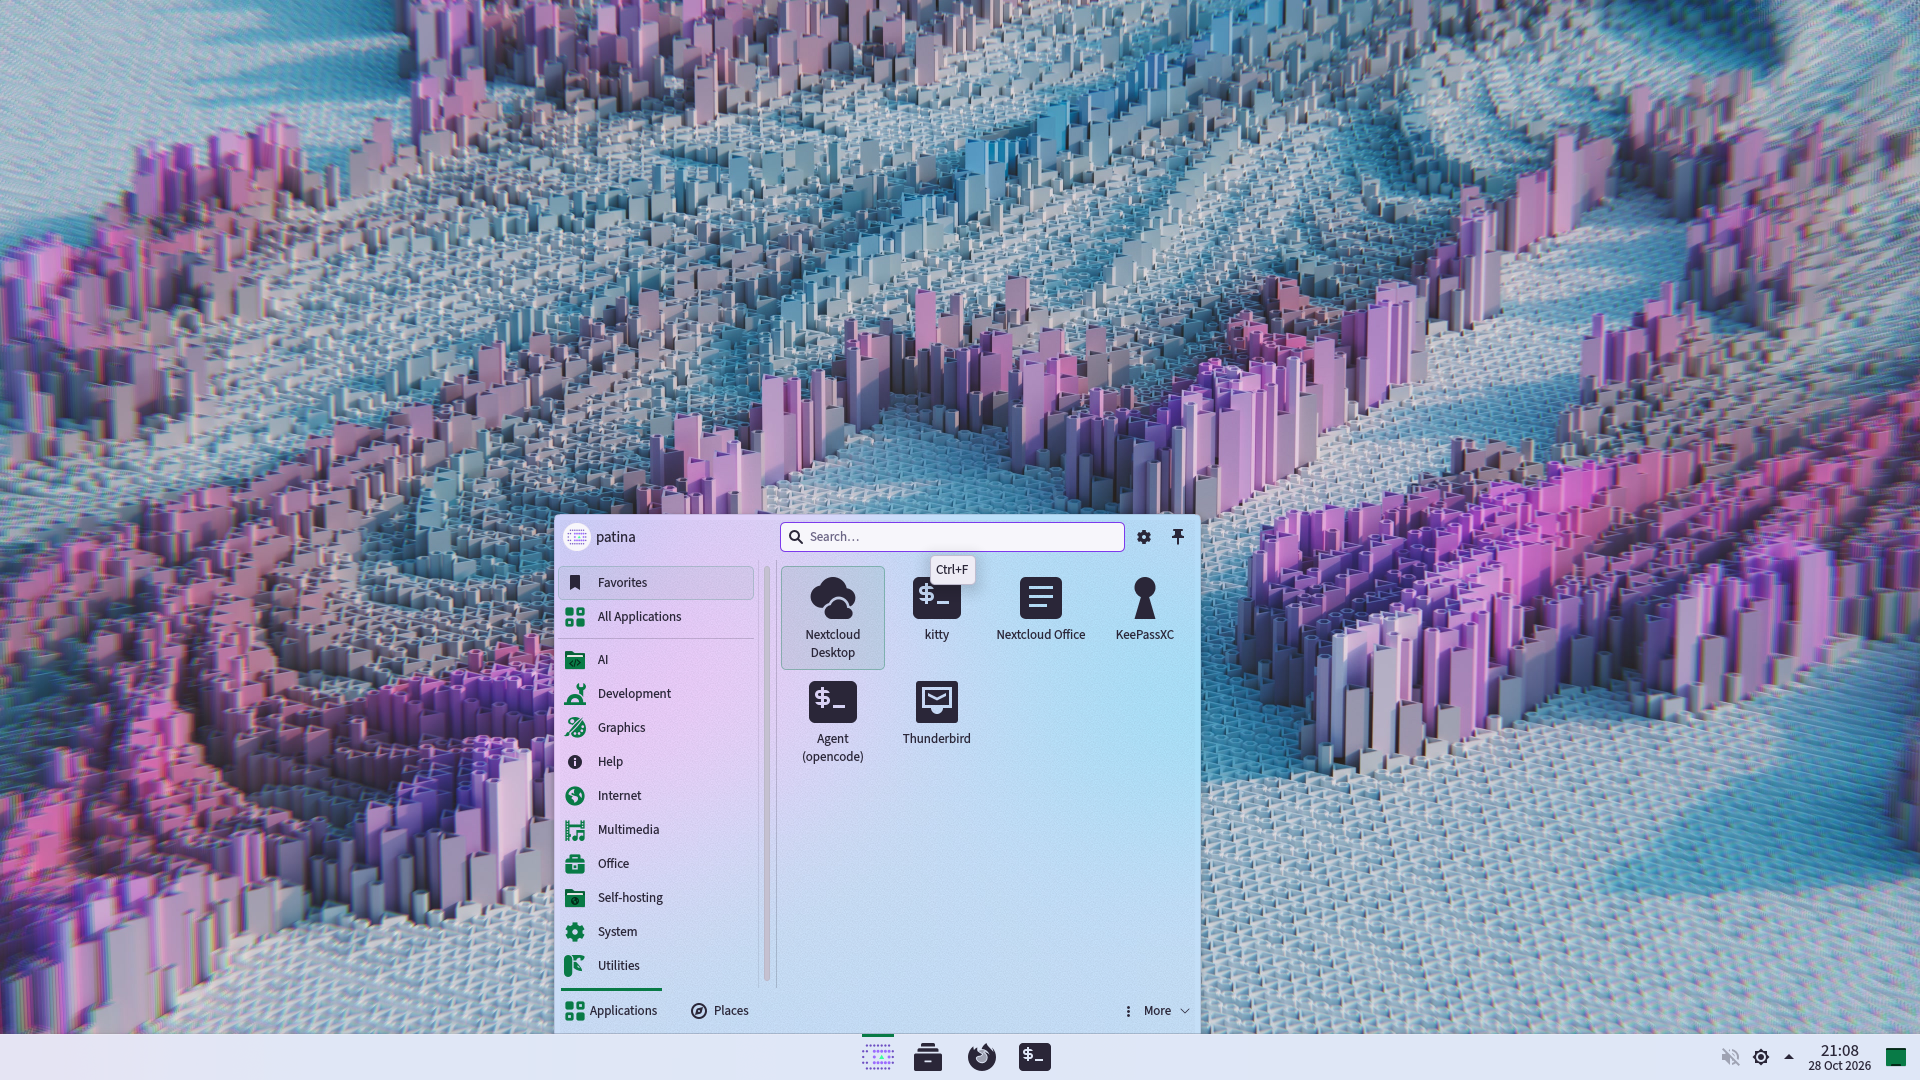
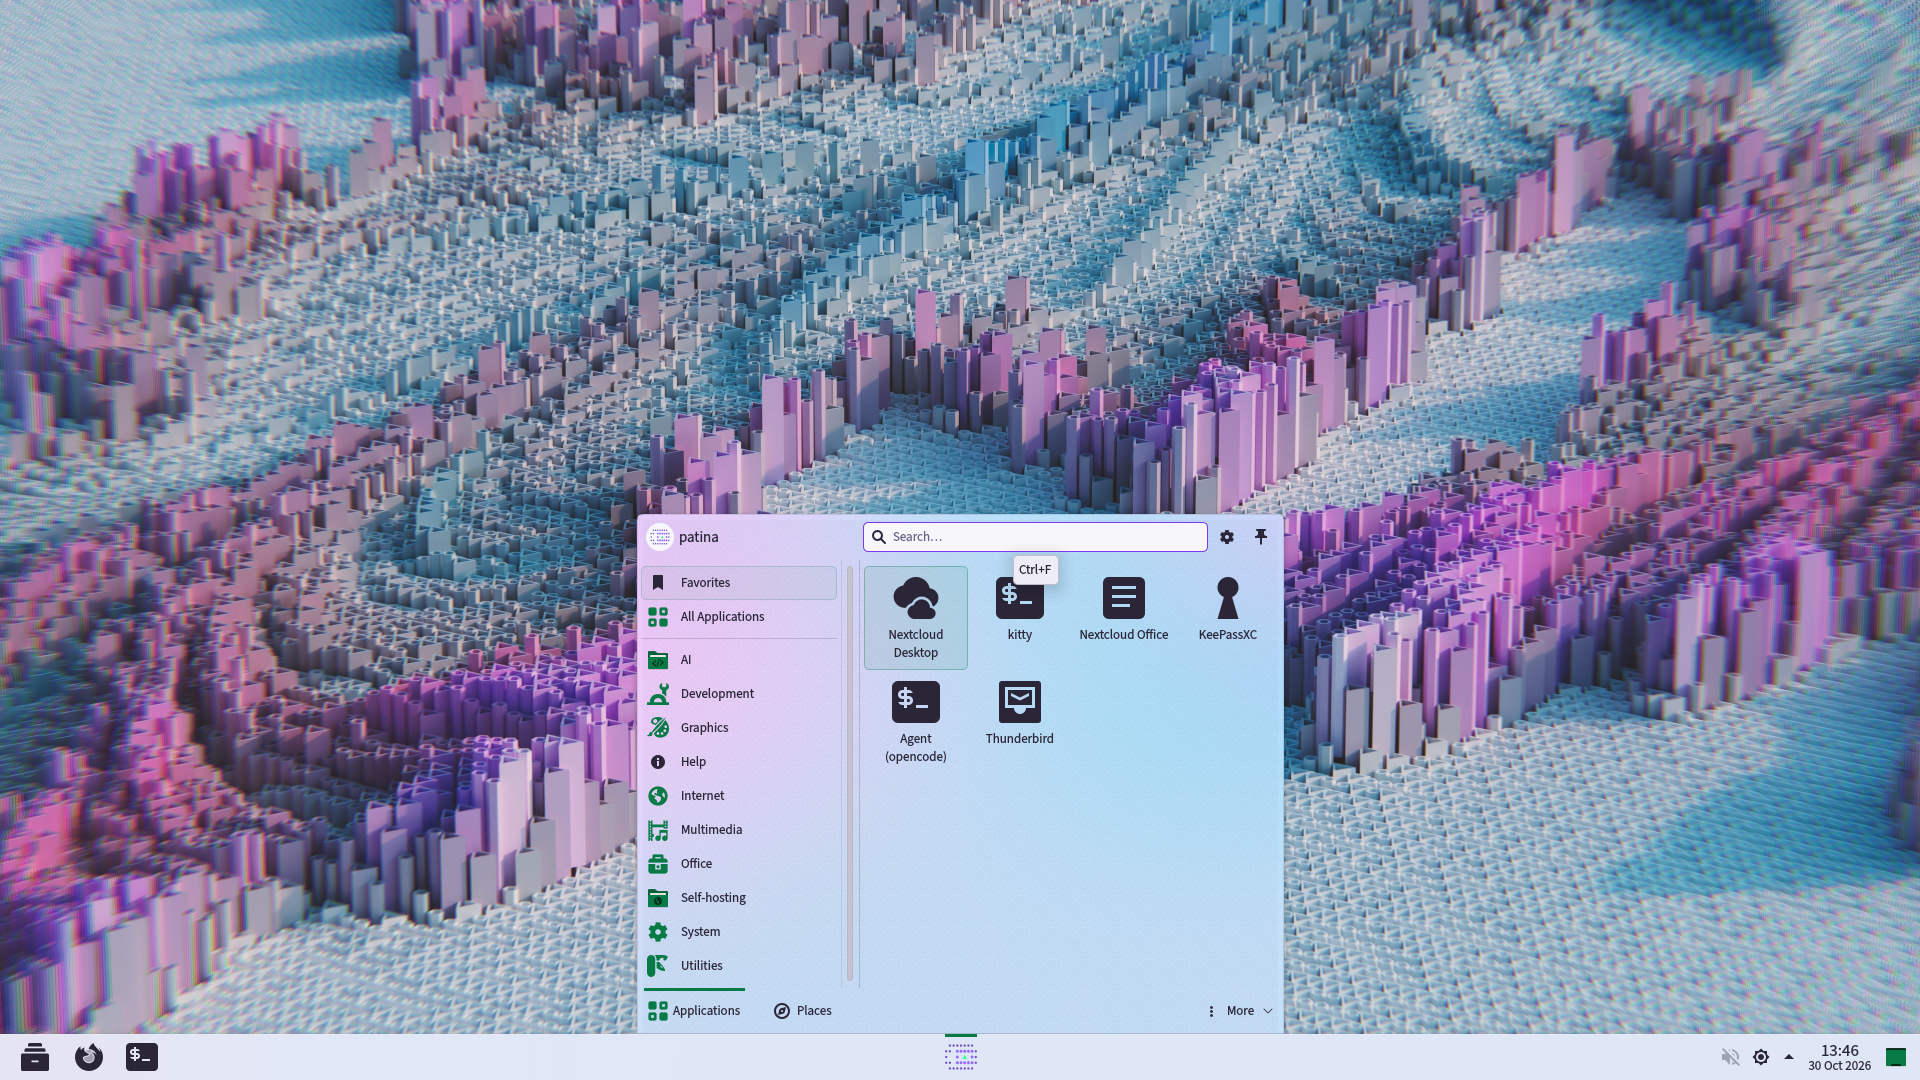
Refresh the README's screenshots from CI
The desktop workflow's run on #64's head, whose tree main now has,
shows the new bar: the start button alone in its centre, the pinned
apps at its left end, and the start menu open in the middle of the
screen's width (x 637 to 1283 of 1920, where it sat 83 px left of the
centre before). The command palette comes from the same run. The
captions name what the new pictures show.

Claude-Session: https://claude.ai/code/session_013UKWhWrghpZCASeorR9SpW

diff --git a/README.md b/README.md
@@ -60,8 +60,9 @@ blurred wallpaper, with the AI agent's page among the steps:
 
 The finished desktop, as the `desktop` workflow captures it (amd64, a Plasma X11
 session on a virtual framebuffer after `patina install`): aurora, the default theme,
-with its wallpaper, the centred bar of one-colour icons and kitty, the one
-see-through window, split in two: the fastfetch greeting beside btop.
+with its wallpaper, the bar of one-colour icons with the start button alone in its
+centre and the pinned apps at its left end, and kitty, the one see-through window,
+split in two: the fastfetch greeting beside btop.
 
 ![The patina desktop with the aurora theme](docs/screenshots/desktop-amd64.png)
 
@@ -75,9 +76,9 @@ none to run.
 ![KRunner with kortex in the middle of the desktop: the agent asks before it installs the artcraft bundle for PhotoCraft](docs/screenshots/command-palette-amd64.png)
 
 The start menu in aurora's light mode (`patina theme mode light`), over its own
-DeepMind wallpaper: glass the wallpaper glows through, the category icons in the
-accent, the apps by their names alone, and the small patina mark as the user's
-picture while it is Debian's.
+DeepMind wallpaper, open in the middle of the screen's width above its button: glass
+the wallpaper glows through, the category icons in the accent, the apps by their names
+alone, and the small patina mark as the user's picture while it is Debian's.
 
 ![The patina start menu in the light mode](docs/screenshots/start-menu-amd64.png)
 
